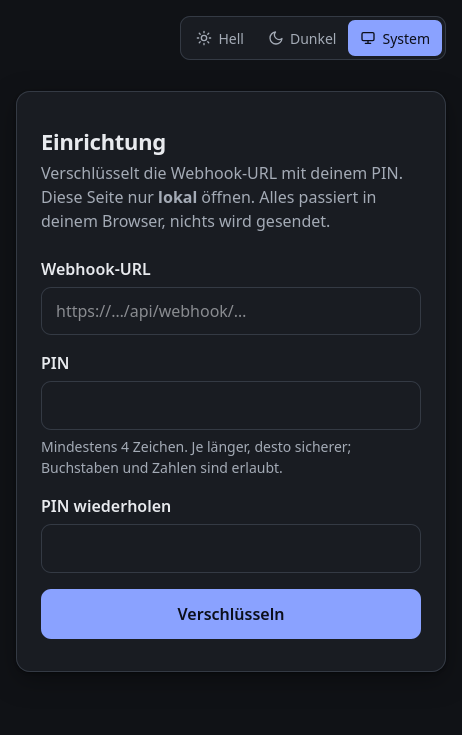
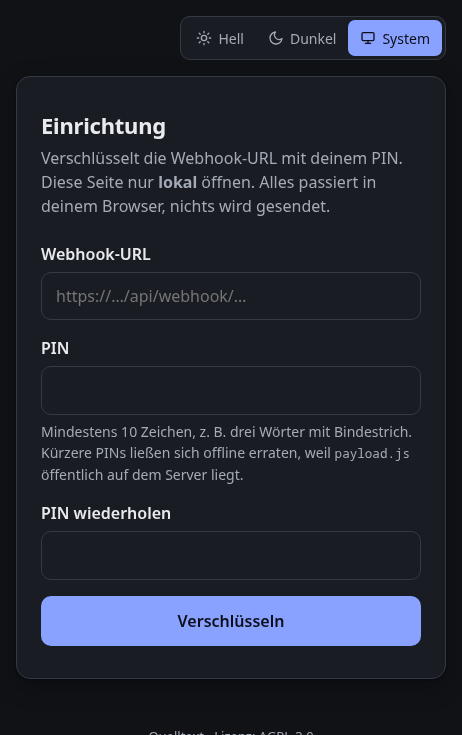
PIN mindestens 10 Zeichen; Browsertest für Einrichtung und Auslösen

diff --git a/setup.js b/setup.js
@@ -4,6 +4,9 @@
 // Läuft komplett lokal im Browser, es wird nichts gesendet.
 
 const ITERATIONS = 600000;
+// payload.js liegt öffentlich auf dem Server: Ein kurzer PIN ließe sich dort offline durchprobieren (4 Ziffern in
+// rund einer Stunde, trotz 600 000 Runden). Ab 10 Zeichen ist das praktisch ausgeschlossen, mit Wörtern erst recht.
+const MIN_PIN = 10;
 const toB64 = bytes => btoa(String.fromCharCode(...bytes));
 
 async function encrypt(url, pin) {
@@ -38,6 +41,13 @@ form.addEventListener('submit', async (ev) => {
   ev.preventDefault();
   pin2.removeAttribute('aria-invalid');
 
+  if (pin.value.length < MIN_PIN) {
+    pin.setAttribute('aria-invalid', 'true');
+    showStatus('error', `Der PIN muss mindestens ${MIN_PIN} Zeichen haben (z. B. drei Wörter mit Bindestrich).`);
+    pin.focus();
+    return;
+  }
+  pin.removeAttribute('aria-invalid');
   if (pin.value !== pin2.value) {
     pin2.setAttribute('aria-invalid', 'true');
     showStatus('error', 'Die PINs stimmen nicht überein.');

diff --git a/setup.html b/setup.html
@@ -44,9 +44,9 @@
                placeholder="https://…/api/webhook/…" spellcheck="false" />
 
         <label class="field" for="pin">PIN</label>
-        <input class="input pin" id="pin" type="password" required minlength="4"
+        <input class="input pin" id="pin" type="password" required minlength="10"
                aria-describedby="pinHint" />
-        <p class="hint" id="pinHint">Mindestens 4 Zeichen. Je länger, desto sicherer; Buchstaben und Zahlen sind erlaubt.</p>
+        <p class="hint" id="pinHint">Mindestens 10 Zeichen, z. B. drei Wörter mit Bindestrich. Kürzere PINs ließen sich offline erraten, weil <code>payload.js</code> öffentlich auf dem Server liegt.</p>
 
         <label class="field" for="pin2">PIN wiederholen</label>
         <input class="input pin" id="pin2" type="password" required />

diff --git a/README.md b/README.md
@@ -54,7 +54,7 @@ per Webhook auslösen können. Der Button erscheint erst nach Eingabe des richti
 ## PIN oder Webhook-URL ändern
 
 1. `setup.html` lokal im Browser öffnen (Doppelklick genügt).
-2. Webhook-URL und neuen PIN eingeben, auf „Verschlüsseln“ klicken.
+2. Webhook-URL und neuen PIN eingeben (mindestens 10 Zeichen), auf „Verschlüsseln“ klicken.
 3. „payload.js herunterladen“ und die vorhandene `payload.js` damit ersetzen.
 4. Die neue `payload.js` auf den Server hochladen.
 
@@ -78,9 +78,10 @@ Die Webhook-URL steht in Home Assistant in der jeweiligen Automation beim Webhoo
 
 - **Wer den PIN kennt, kann die URL sehen** (z. B. im Netzwerk-Tab der Entwicklerwerkzeuge)
   und den Webhook dann auch ohne die Seite aufrufen.
-- **Kurze Zahlen-PINs sind knackbar.** Die Wartezeit schützt nur auf der Seite selbst.
-  Wer `payload.js` herunterlädt, kann offline alle PINs durchprobieren. Ein längeres
-  Passwort (z. B. 3–4 zufällige Wörter) macht das praktisch unmöglich.
+- **Kurze PINs sind knackbar.** Die Wartezeit schützt nur auf der Seite selbst.
+  Wer `payload.js` herunterlädt, kann offline alle PINs durchprobieren: Ein 4-stelliger
+  Zahlen-PIN fällt auf einem normalen Rechner in rund einer Stunde, mit Grafikkarte schneller.
+  `setup.html` verlangt deshalb mindestens 10 Zeichen. Am sichersten sind 3–4 zufällige Wörter.
 - **Nicht dauerhaft betreiben.** Die Seite nur für den Zeitraum veröffentlichen, in dem
   sie tatsächlich gebraucht wird.
 - **Nach Ende der Nutzung** die Seite offline nehmen und in Home Assistant die

diff --git a/CHANGELOG.md b/CHANGELOG.md
@@ -6,7 +6,18 @@ Das Format basiert auf [Keep a Changelog](https://keepachangelog.com/de/1.1.0/).
 
 ## [Unveröffentlicht]
 
-_Nichts._
+### Sicherheit
+
+- `setup.html` verlangt einen PIN mit mindestens 10 Zeichen (bisher 4). `payload.js` liegt öffentlich auf dem Server;
+  ein 4-stelliger Zahlen-PIN ließ sich dort offline in rund einer Stunde durchprobieren. Hinweistext, README und
+  Screenshot angepasst. Eine schon eingerichtete `payload.js` funktioniert weiter, sollte aber mit einem längeren PIN
+  neu erzeugt werden.
+
+### Intern
+
+- Browsertest `tests/browser.mjs` (läuft mit `~/projects/testumgebung/pt test`): Einrichtung, falscher und richtiger
+  PIN, manipulierte `payload.js`, fehlende Einrichtung; der Webhook ist gemockt und wird genau einmal per POST an die
+  entschlüsselte Adresse aufgerufen.
 
 ## 2026-10-14
 
